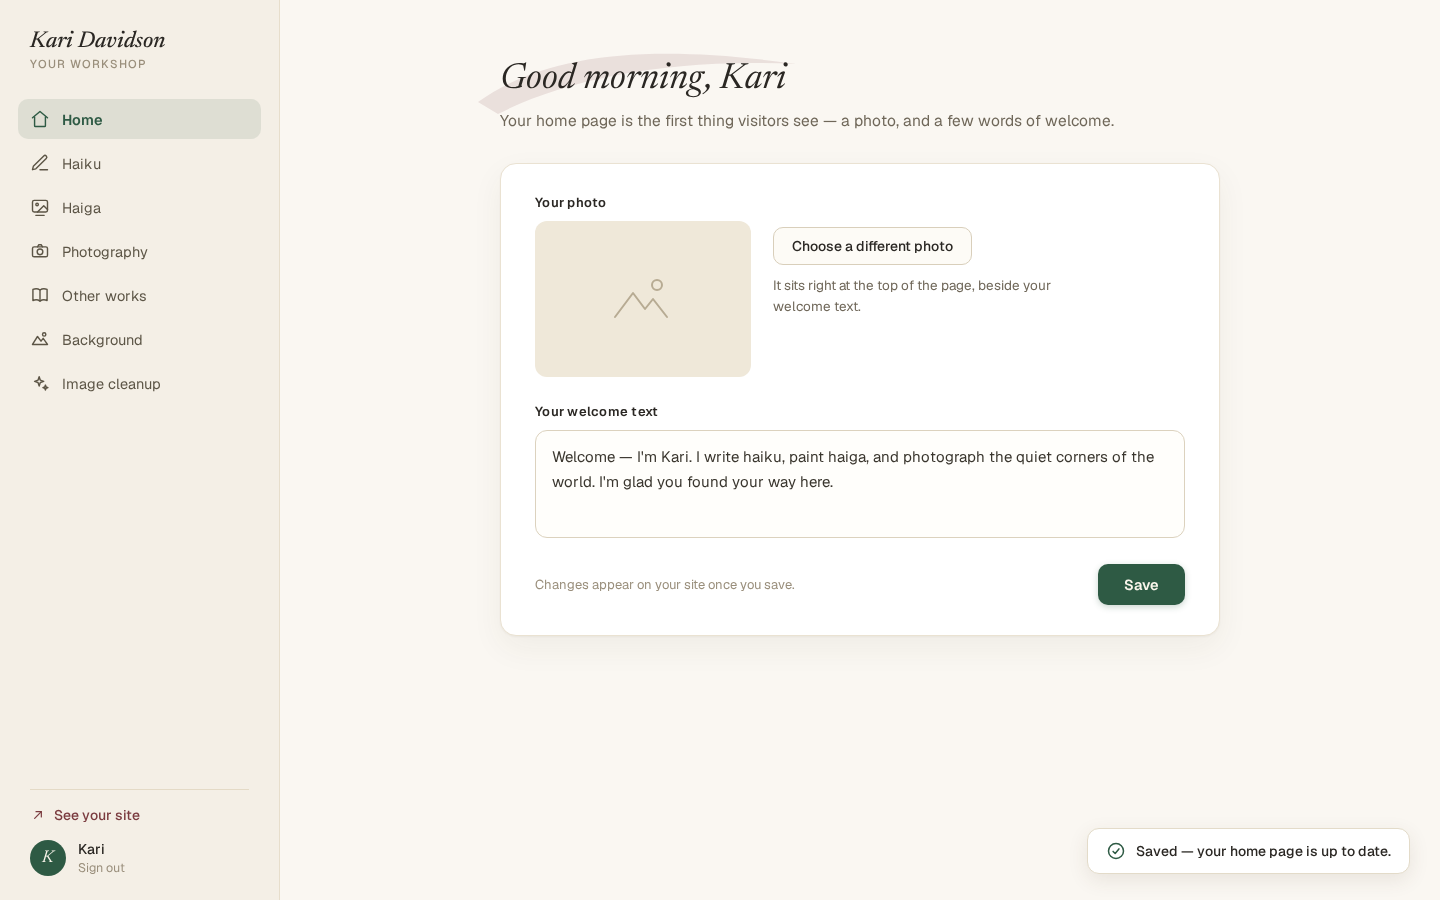
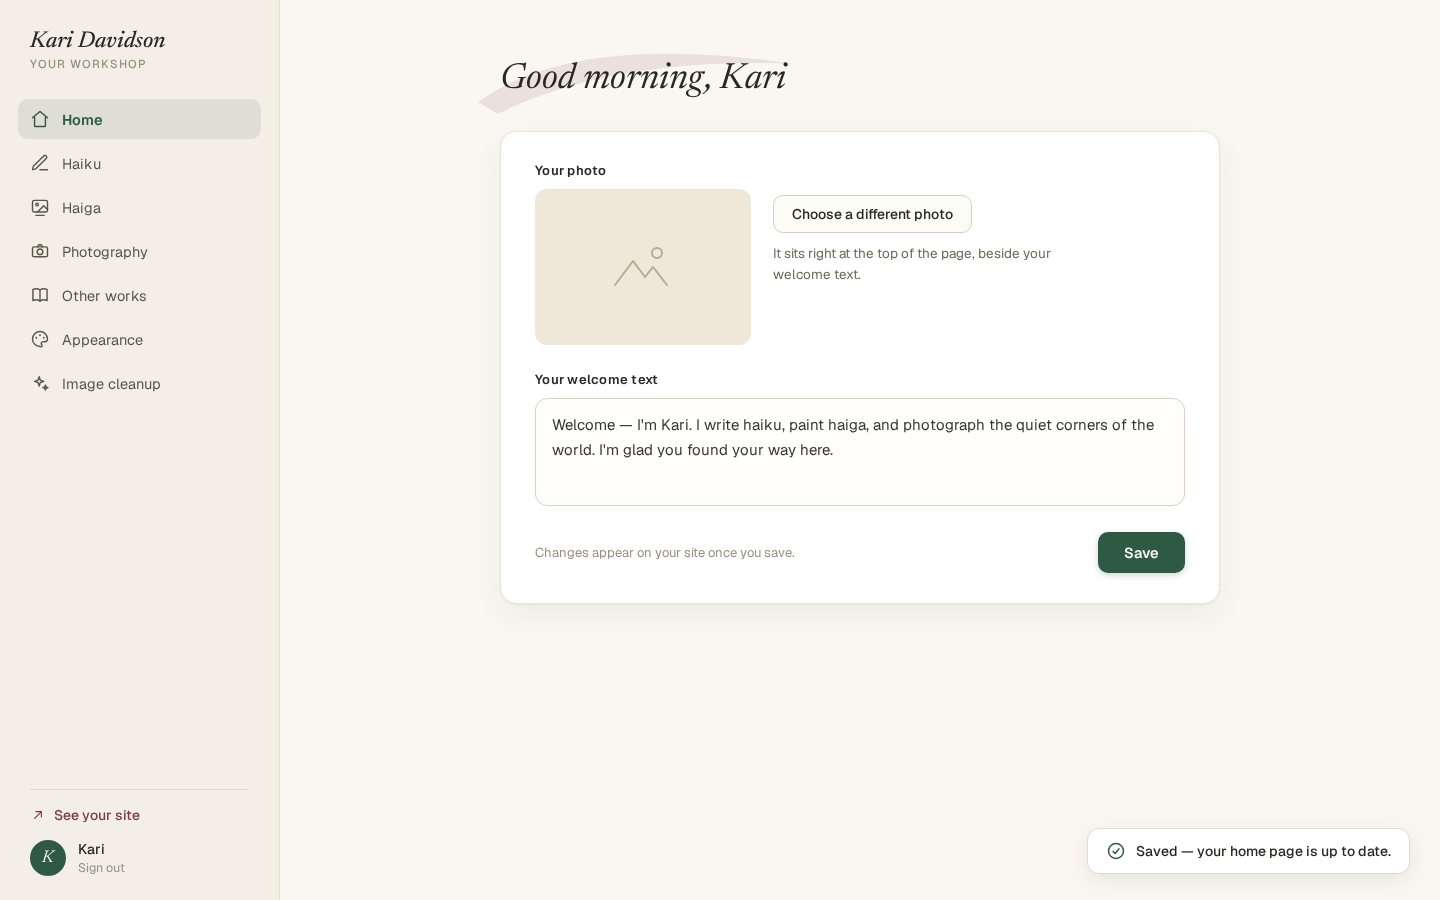
Update the admin redesign reference for the Appearance page (#692)
* Update the admin redesign reference for the Appearance page

New Appearance boards (background photo + header colours + font
pairings, one Save), the Appearance label and palette icon in every
sidebar/rail/menu board, and matching README notes.

Closes #691

Claude-Session: https://claude.ai/code/session_01C3earJBSEs5jFVFAXfGtqW

* Drop the page-title subheadings across the admin boards

Claude-Session: https://claude.ai/code/session_01C3earJBSEs5jFVFAXfGtqW

---------

diff --git a/docs/design/admin-redesign/README.md b/docs/design/admin-redesign/README.md
@@ -60,7 +60,7 @@ swash behind them.
 | Haiga         | `HaigaList`, `HaigaTablet`, `HaigaListMobile`, `HaigaEditor`, `HaigaEditorMobile` |
 | Photography   | `PhotoList`, `PhotoTablet`, `PhotoListMobile`, `PhotoEditor`, `PhotoEditorMobile` |
 | Other works   | `WorksList`, `WorksTablet`, `WorksListMobile`, `WorksEditor`, `WorksEditorMobile` |
-| Background    | `Background`, `BackgroundTablet`, `BackgroundMobile` |
+| Appearance    | `Appearance`, `AppearanceTablet`, `AppearanceMobile` |
 | Image cleanup | `Cleanup`, `CleanupTablet`, `CleanupMobile` |
 | Nav           | `MobileMenu` (open state) |
 | Tokens        | `Theme` |
@@ -80,6 +80,14 @@ Notable deliberate decisions, beyond restyling:
   above, and the admin drops the public site's background photo and
   header-colour settings entirely — it has its own fixed look (settles
   the direction of #642).
+- The Appearance page (nav label "Appearance", palette icon) groups its
+  three settings into cards — Site background, Header colours, Fonts —
+  side by side at desktop, stacked below, with the page's one Save in a
+  footer row. The header-colours card keeps the preview bar, swatches,
+  see-through slider and "Use default" per colour; its two readability
+  sentences are shown in BOTH states on purpose (reads-clearly, and
+  may-be-hard-to-read with its advice). The font options render in
+  their real Google families, sample lines and caption included.
 - List rows keep Edit / move arrows / outlined Delete with labels, per
   #457; search + one primary "Add …" button live in the list card's
   header row.
